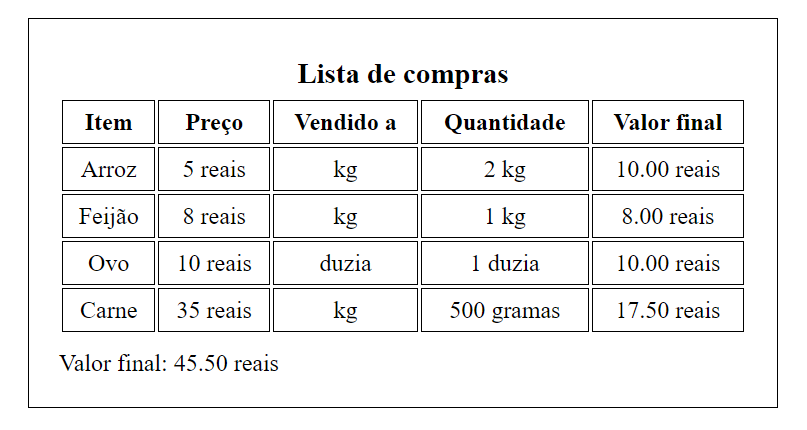
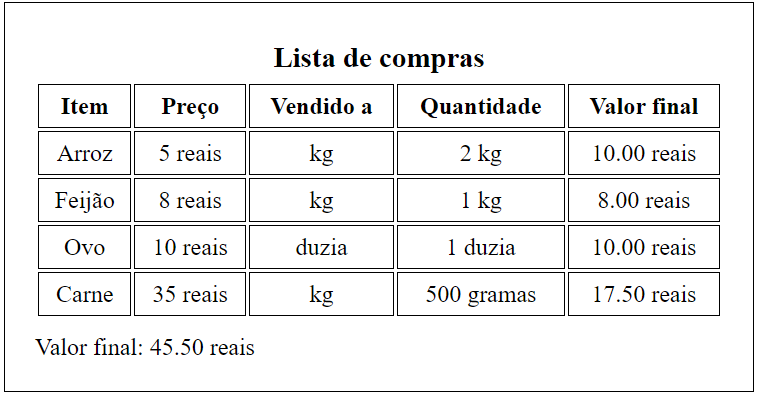
06, fix readme project image

diff --git a/06)shopping_list_project_1/readme.md b/06)shopping_list_project_1/readme.md
@@ -8,10 +8,10 @@
 
 - Esse projeto contempla o primeiro uso prático de integração de um `servidor local + frontend` em algo interessante, sendo uma lista de supermercado que recebe dados do servidor e os renderiza. Essa é a primeira versão, posterioremente irei criar outra usando esta como base, mas integrada com outros métodos HTTP para gerar mais funcionalidades a ela, como adicionar, editar e apagar itens. Foco aqui não é em beleza e nem entrega de produto, mas aprender mais e aplicar de forma engajante o que venho estudado.
 
-<div style="display: flex; justify-content: center; width:500px">
-	<h3 style="text-align: center;">Demonstrativo visual final do projeto</h1>
-	<img src="src/image.png" style="width:500px">
-</div>
+### Demonstrativo visual final do projeto
+
+<img src="src/image.png" style="width:500px">
+
 
 ### 📥 Para rodar o projeto na sua máquina
 
